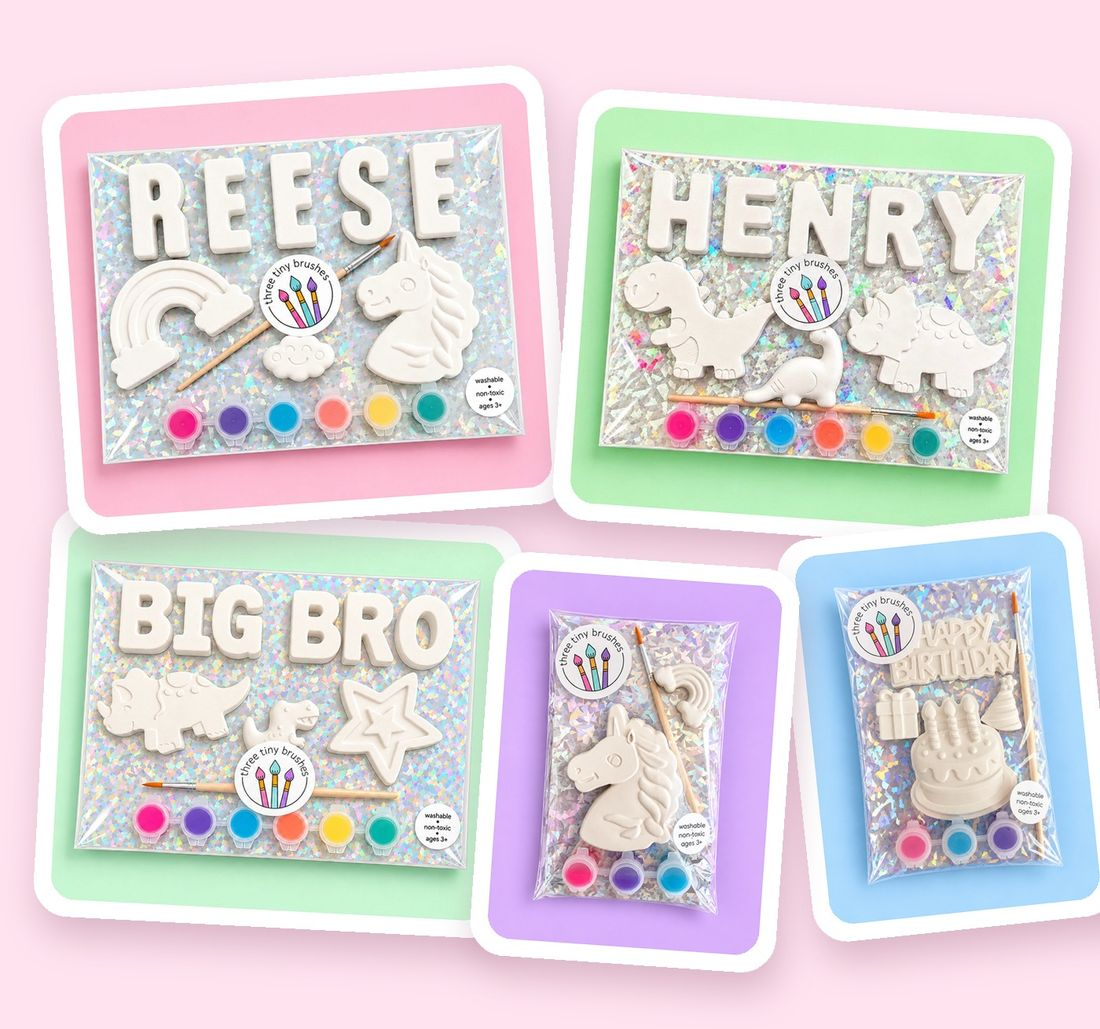
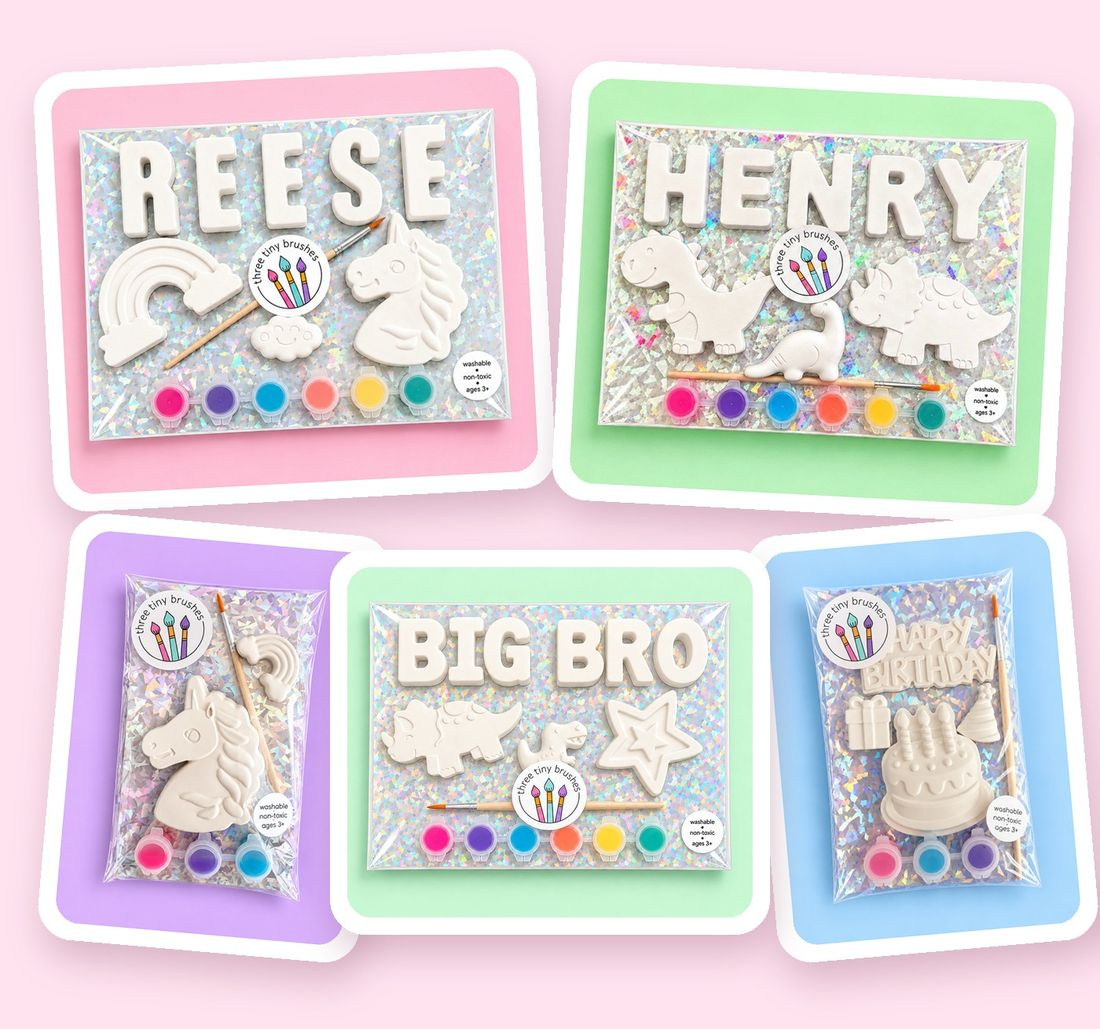
Hero collage v4: bottom row Unicorn pack, Big Bro (center), Happy Birthday

diff --git a/tools/make_hero_collage.py b/tools/make_hero_collage.py
@@ -1,4 +1,4 @@
-# Builds the hero collage (Reese + Henry name kits, Big Bro kit, Unicorn & Rainbow + Happy Birthday party packs; overlapping layout, Oct 12 2026) -> site-revamp/images/hero-kits-collage.jpg; then resize to img/hero-kits-{560,800,1100}.
+# Builds the hero collage (Reese + Henry name kits, Big Bro kit, Unicorn & Rainbow + Happy Birthday party packs; overlapping layout v4, bottom row Unicorn pack / Big Bro / Happy Birthday, Oct 12 2026) -> site-revamp/images/hero-kits-collage.jpg; then resize to img/hero-kits-{560,800,1100}.
 from PIL import Image,ImageDraw,ImageFilter
 S='/workspace/threetinybrushes/site-revamp/images/';P='/workspace/threetinybrushes/incoming/2026-10-06-party-packs/'
 old=Image.open(S+'hero-kits-collage.jpg').convert('RGB');bg=old.getpixel((10,10))
@@ -20,9 +20,9 @@ def place(cd,x,y,ang):
     c.alpha_composite(sh);c.alpha_composite(cd,(x,y))
 # name kits: crop to the package area (pkg ~145..895 x 225..785 of 1024 scale on 1600 -> *1.5625)
 k=lambda a:(int(a[0]*1.5625),int(a[1]*1.5625),int(a[2]*1.5625),int(a[3]*1.5625))
-place(card(S+'big-bro-paint-kit.jpg',600,525,k((70,150,970,880))),40,640,-3)
-place(card(S+'unicorn-wishes-personalized-paintable-name-kit.jpg',640,560,k((70,150,970,880))),50,80,4)
-place(card(S+'dino-mite-personalized-paintable-name-kit.jpg',630,550,k((70,150,970,880))),700,110,-4)
-place(card(P+'happy-birthday-pack.png',390,515),985,650,6)
-place(card(P+'party-pack-1.png',390,515),595,700,-4)
+place(card(S+'unicorn-wishes-personalized-paintable-name-kit.jpg',640,560,k((70,150,970,880))),40,60,3)
+place(card(S+'dino-mite-personalized-paintable-name-kit.jpg',640,560,k((70,150,970,880))),700,75,-3)
+place(card(P+'party-pack-1.png',410,545),45,650,-5)
+place(card(P+'happy-birthday-pack.png',410,545),945,650,5)
+place(card(S+'big-bro-paint-kit.jpg',560,490,k((70,150,970,880))),420,700,0)
 c.convert('RGB').save('hero-kits-collage.jpg',quality=92)
